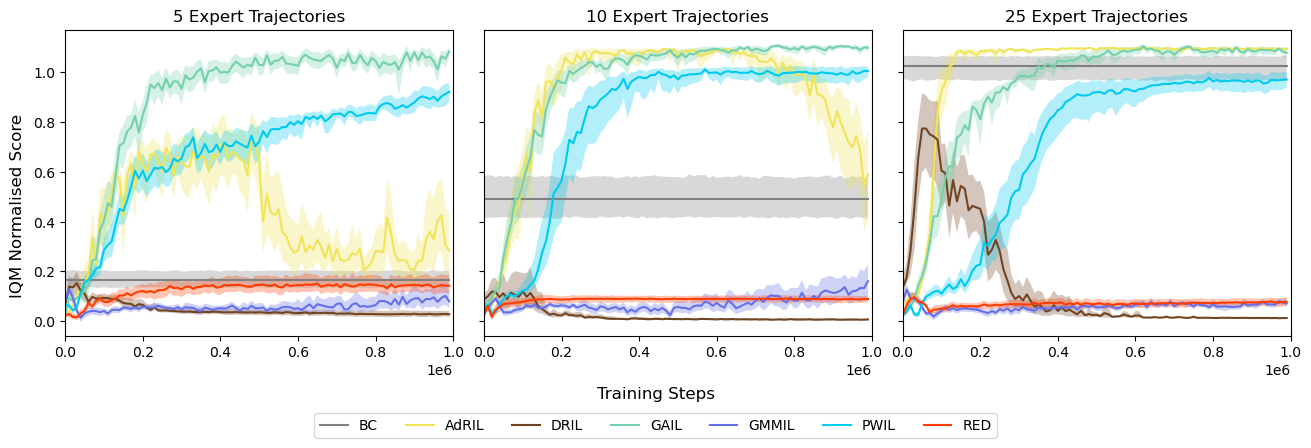
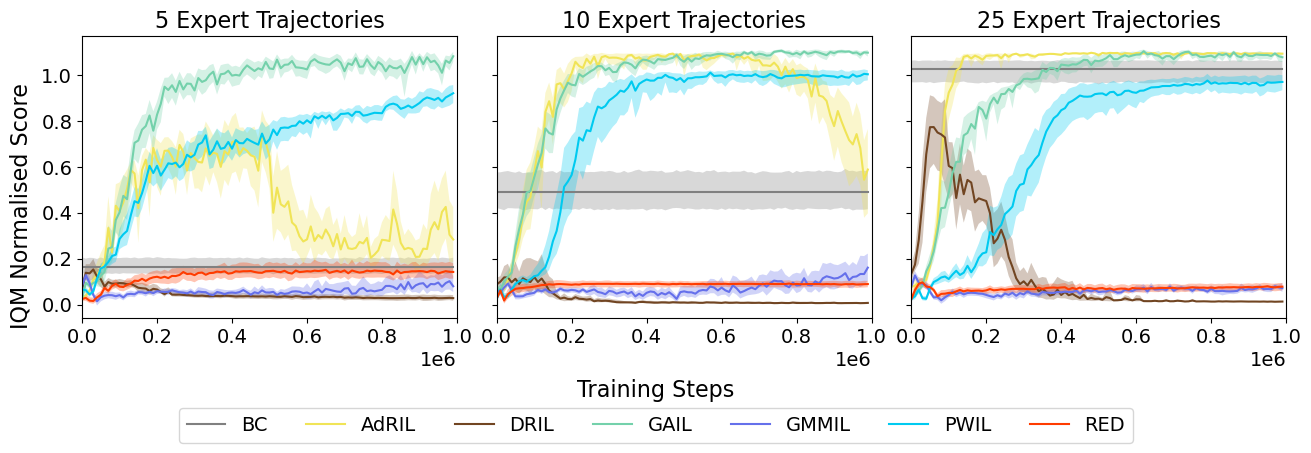
Improve figure readability

diff --git a/scripts/print_plot_seed_sweep_results.py b/scripts/print_plot_seed_sweep_results.py
@@ -25,7 +25,7 @@ parser.add_argument('--seeds', type=int, default=10, help='Max number of seeds t
 parser.add_argument('--unnormalise', action=argparse.BooleanOptionalAction, help='Use unnormalised returns')
 args = parser.parse_args()
 cfg = OmegaConf.load(os.path.join('conf', 'train_config.yaml'))  # Load default config
-plt.rcParams.update({'axes.titlesize': 12, 'axes.labelsize': 12, 'xtick.labelsize': 10, 'ytick.labelsize': 10, 'legend.fontsize': 10})
+plt.rcParams.update({'axes.titlesize': 16, 'figure.labelsize': 16, 'xtick.labelsize': 14, 'ytick.labelsize': 14, 'legend.fontsize': 14})
 if 'SAC' in args.algorithms: TRAJECTORIES, cfg.steps = ['0'], 3000000  # Overwrite args for SAC alone
 
 
